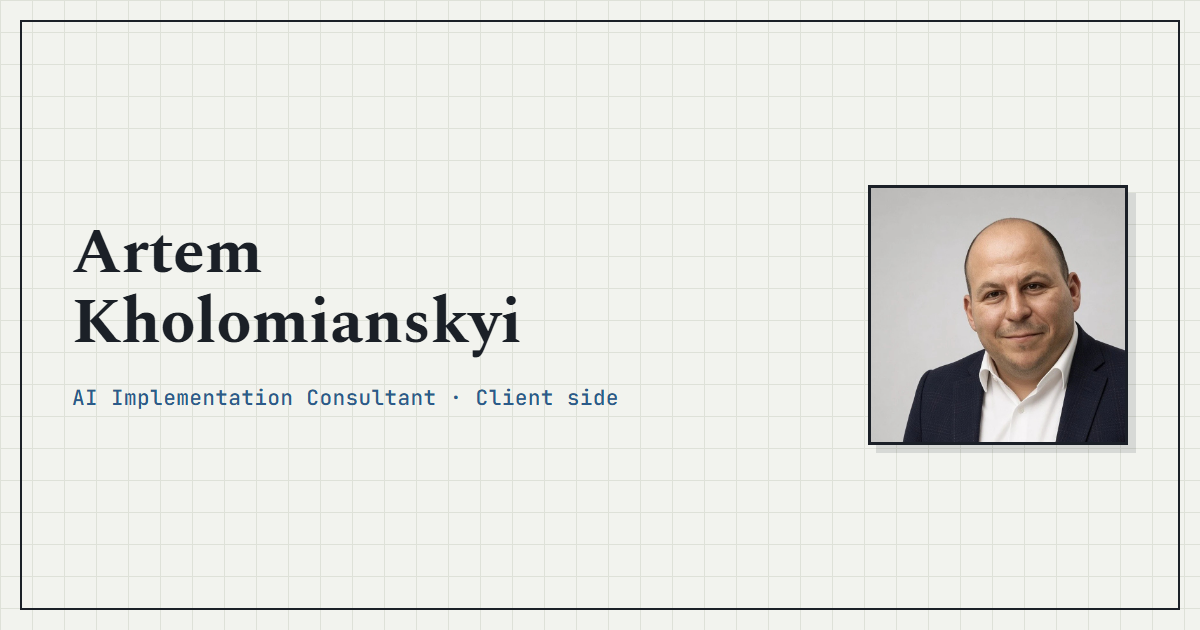
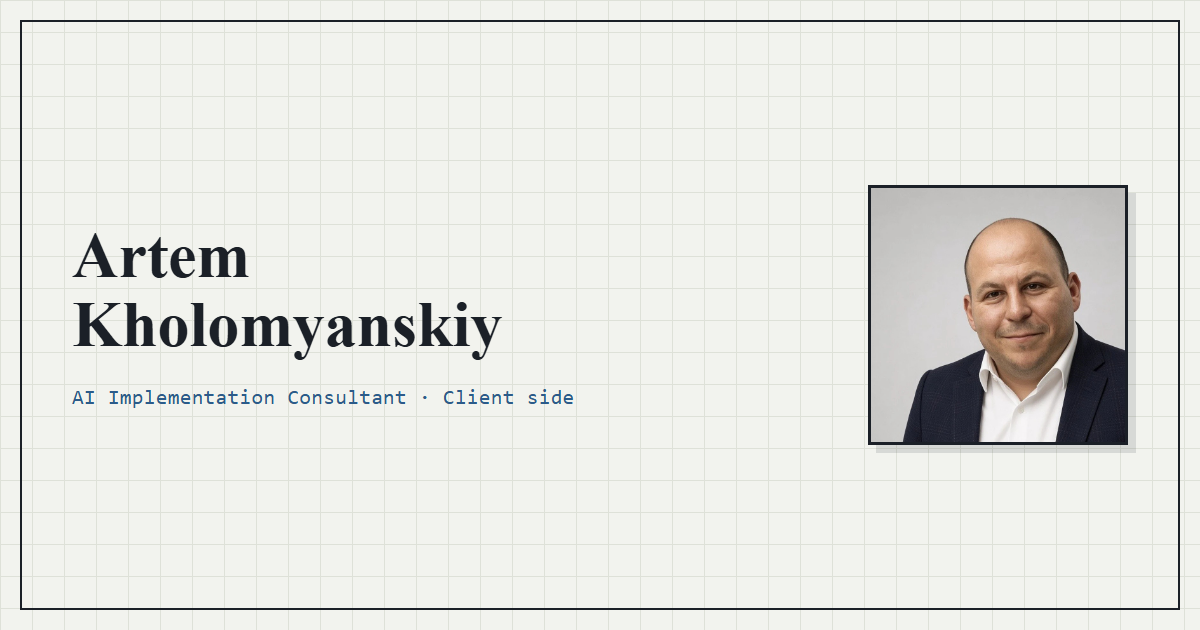
Fix og-image name spelling to match domain (Kholomyanskiy)
og-image.png and og:image:alt used "Kholomianskyi" (from the CV
filename), inconsistent with the domain and every other page.

Changed region(s): [[0.0617, 0.3619, 0.4317, 0.573], [0.0617, 0.6032, 0.5242, 0.6635]]

diff --git a/articles.html b/articles.html
@@ -13,7 +13,7 @@
 <meta property="og:image" content="https://kholomyanskiy.com/og-image.png">
 <meta property="og:image:width" content="1200">
 <meta property="og:image:height" content="630">
-<meta property="og:image:alt" content="Artem Kholomianskyi — AI Implementation Consultant">
+<meta property="og:image:alt" content="Artem Kholomyanskiy — AI Implementation Consultant">
 <meta name="twitter:image" content="https://kholomyanskiy.com/og-image.png">
 <meta property="og:locale" content="en_US">
 <meta property="og:locale:alternate" content="ru_RU">

diff --git a/audit.html b/audit.html
@@ -13,7 +13,7 @@
 <meta property="og:image" content="https://kholomyanskiy.com/og-image.png">
 <meta property="og:image:width" content="1200">
 <meta property="og:image:height" content="630">
-<meta property="og:image:alt" content="Artem Kholomianskyi — AI Implementation Consultant">
+<meta property="og:image:alt" content="Artem Kholomyanskiy — AI Implementation Consultant">
 <meta name="twitter:image" content="https://kholomyanskiy.com/og-image.png">
 <meta property="og:locale" content="en_US">
 <meta property="og:locale:alternate" content="ru_RU">

diff --git a/index.html b/index.html
@@ -13,7 +13,7 @@
 <meta property="og:image" content="https://kholomyanskiy.com/og-image.png">
 <meta property="og:image:width" content="1200">
 <meta property="og:image:height" content="630">
-<meta property="og:image:alt" content="Artem Kholomianskyi — AI Implementation Consultant">
+<meta property="og:image:alt" content="Artem Kholomyanskiy — AI Implementation Consultant">
 <meta name="twitter:image" content="https://kholomyanskiy.com/og-image.png">
 <meta property="og:locale" content="en_US">
 <meta property="og:locale:alternate" content="ru_RU">

diff --git a/metodichka.html b/metodichka.html
@@ -13,7 +13,7 @@
 <meta property="og:image" content="https://kholomyanskiy.com/og-image.png">
 <meta property="og:image:width" content="1200">
 <meta property="og:image:height" content="630">
-<meta property="og:image:alt" content="Artem Kholomianskyi — AI Implementation Consultant">
+<meta property="og:image:alt" content="Artem Kholomyanskiy — AI Implementation Consultant">
 <meta name="twitter:image" content="https://kholomyanskiy.com/og-image.png">
 <meta property="og:locale" content="en_US">
 <meta property="og:locale:alternate" content="ru_RU">

diff --git a/portfolio.html b/portfolio.html
@@ -13,7 +13,7 @@
 <meta property="og:image" content="https://kholomyanskiy.com/og-image.png">
 <meta property="og:image:width" content="1200">
 <meta property="og:image:height" content="630">
-<meta property="og:image:alt" content="Artem Kholomianskyi — AI Implementation Consultant">
+<meta property="og:image:alt" content="Artem Kholomyanskiy — AI Implementation Consultant">
 <meta name="twitter:image" content="https://kholomyanskiy.com/og-image.png">
 <meta property="og:locale" content="en_US">
 <meta property="og:locale:alternate" content="ru_RU">

diff --git a/products.html b/products.html
@@ -13,7 +13,7 @@
 <meta property="og:image" content="https://kholomyanskiy.com/og-image.png">
 <meta property="og:image:width" content="1200">
 <meta property="og:image:height" content="630">
-<meta property="og:image:alt" content="Artem Kholomianskyi — AI Implementation Consultant">
+<meta property="og:image:alt" content="Artem Kholomyanskiy — AI Implementation Consultant">
 <meta name="twitter:image" content="https://kholomyanskiy.com/og-image.png">
 <meta property="og:locale" content="en_US">
 <meta property="og:locale:alternate" content="ru_RU">

diff --git a/services.html b/services.html
@@ -13,7 +13,7 @@
 <meta property="og:image" content="https://kholomyanskiy.com/og-image.png">
 <meta property="og:image:width" content="1200">
 <meta property="og:image:height" content="630">
-<meta property="og:image:alt" content="Artem Kholomianskyi — AI Implementation Consultant">
+<meta property="og:image:alt" content="Artem Kholomyanskiy — AI Implementation Consultant">
 <meta name="twitter:image" content="https://kholomyanskiy.com/og-image.png">
 <meta property="og:locale" content="en_US">
 <meta property="og:locale:alternate" content="ru_RU">

diff --git a/spec.html b/spec.html
@@ -13,7 +13,7 @@
 <meta property="og:image" content="https://kholomyanskiy.com/og-image.png">
 <meta property="og:image:width" content="1200">
 <meta property="og:image:height" content="630">
-<meta property="og:image:alt" content="Artem Kholomianskyi — AI Implementation Consultant">
+<meta property="og:image:alt" content="Artem Kholomyanskiy — AI Implementation Consultant">
 <meta name="twitter:image" content="https://kholomyanskiy.com/og-image.png">
 <meta property="og:locale" content="en_US">
 <meta property="og:locale:alternate" content="ru_RU">
